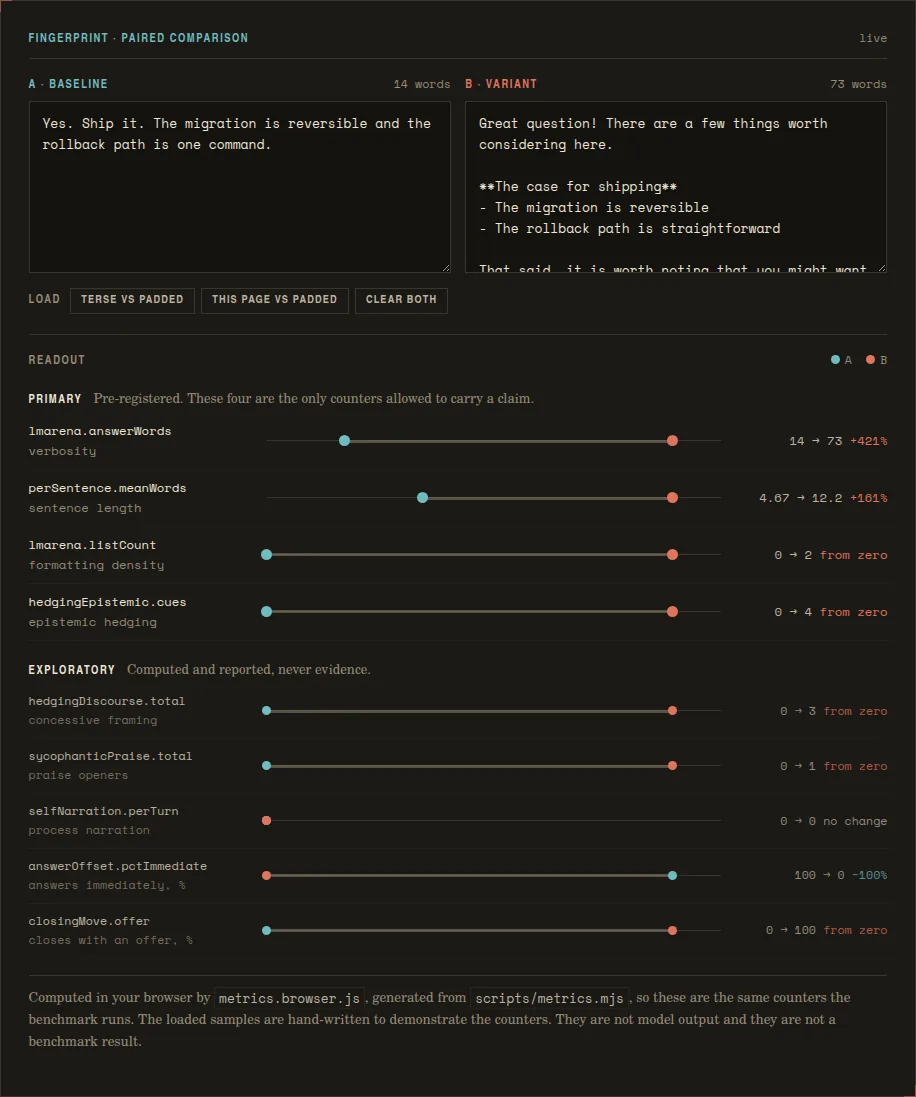
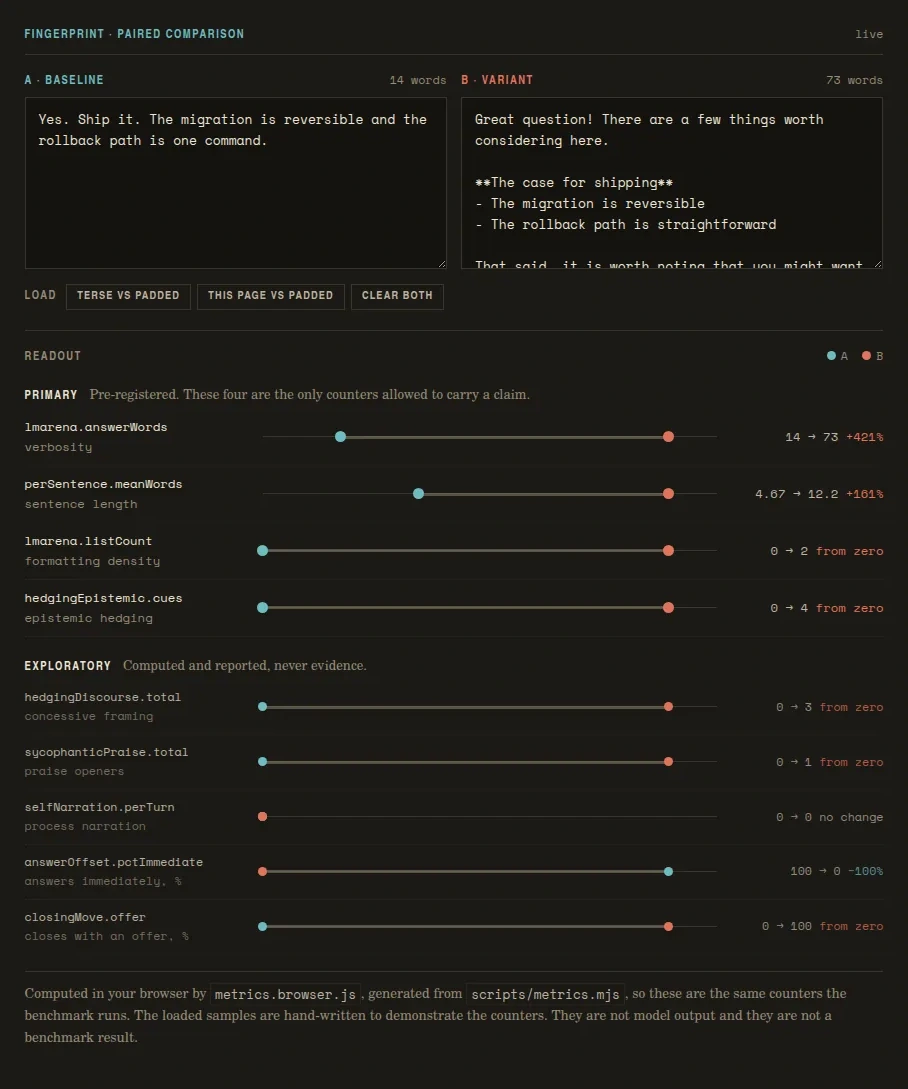
fix: shave baked corners off screenshot assets, absolute og image url

diff --git a/src/routes/index.tsx b/src/routes/index.tsx
@@ -56,15 +56,15 @@ const PROJECTS: Array<Project> = [
             wide: {
                 src: "/ssscribe/desktop.webp",
                 alt: "ssscribe desktop — watch the stream",
-                width: 1392,
-                height: 868,
+                width: 1360,
+                height: 836,
             },
             supporting: [
                 {
                     src: "/ssscribe/capture.webp",
                     alt: "ssscribe capture screen on phone",
-                    width: 392,
-                    height: 848,
+                    width: 352,
+                    height: 808,
                 },
             ],
         },
@@ -139,8 +139,8 @@ const PROJECTS: Array<Project> = [
                 src: "/cc-bench/instrument.webp",
                 darkSrc: "/cc-bench/instrument-dark.webp",
                 alt: "the cc-bench fingerprint tool comparing a terse answer against a padded one, counter by counter",
-                width: 916,
-                height: 1097,
+                width: 908,
+                height: 1089,
             },
         },
     },

diff --git a/src/routes/__root.tsx b/src/routes/__root.tsx
@@ -21,9 +21,7 @@ export const Route = createRootRoute({
             { property: "og:title", content: TITLE },
             { property: "og:description", content: DESCRIPTION },
             { property: "og:type", content: "website" },
-            // must become an absolute url once the production domain is settled — most
-            // scrapers will not resolve a relative og:image
-            { property: "og:image", content: "/og.png" },
+            { property: "og:image", content: "https://thatmike1.portfolio.ssscribe.app/og.png" },
             { property: "og:image:width", content: "1200" },
             { property: "og:image:height", content: "630" },
             { name: "twitter:card", content: "summary_large_image" },
